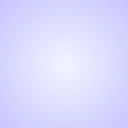
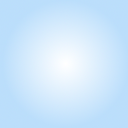
adjusted colors of tiles

Changed region(s): [[0.0, 0.0, 1.0, 1.0], [0.0, 0.0, 0.0312, 0.0625], [0.9688, 0.0, 1.0, 0.0312]]

diff --git a/src/common/components/game/Board.js b/src/common/components/game/Board.js
@@ -28,15 +28,15 @@ class Board extends Component {
     Object.keys(this.props.yourPieces).forEach((yourPieceHex) => {
       let yourPiece = this.props.yourPieces[yourPieceHex]
 
-      //if (this.props.yourTurn && yourPiece.hasMoved) {
-      //  hexColors[yourPieceHex] = 'yellow';
-      //} else {
-        hexColors[yourPieceHex] = 'green';
-      //}
+      if (this.props.yourTurn && yourPiece.hasMoved) {
+        hexColors[yourPieceHex] = 'blue';
+      } else {
+        hexColors[yourPieceHex] = 'bright_blue';
+      }
     });
 
     Object.keys(this.props.opponentsPieces).forEach((opponentsPieceHex) => {
-      hexColors[opponentsPieceHex] = 'red';
+      hexColors[opponentsPieceHex] = 'bright_orange';
     });
 
     if (this.props.selectedTile) {
@@ -91,11 +91,11 @@ class Board extends Component {
 
   getMovementHexColor(hexId) {
     if (this.props.yourPieces[hexId]) {
-      return 'green';
+      return 'bright_blue';
     } else if (this.props.opponentsPieces[hexId]) {
-      return 'dark_red';
+      return 'red';
     } else {
-      return 'blue';
+      return 'green';
     }
   }
 

diff --git a/src/common/components/react-hexgrid/HexGrid.js b/src/common/components/react-hexgrid/HexGrid.js
@@ -13,10 +13,11 @@ class HexGrid extends React.Component {
 
     let images = {
       'blue_tile': require('../img/blue_tile.png'),
+      'bright_blue_tile': require('../img/bright_blue_tile.png'),
+      'orange_tile': require('../img/orange_tile.png'),
+      'bright_orange_tile': require('../img/bright_orange_tile.png'),
       'red_tile': require('../img/red_tile.png'),
       'green_tile': require('../img/green_tile.png'),
-      'yellow_tile': require('../img/yellow_tile.png'),
-      'dark_red_tile': require('../img/dark_red_tile.png'),
       'char': require('../img/char.png'),
       'char_weapon': require('../img/char_weapon.png')
     };
